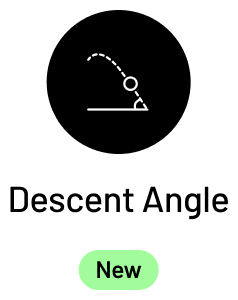
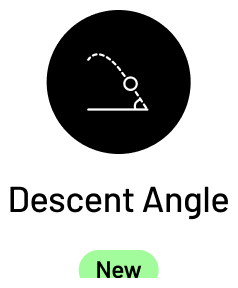
Update metrics section layout and styling for better visual appeal
Refactors the MetricsSection component in client/src/pages/sections/MetricsSection.tsx to adjust spacing, add a top divider, and update the icon container styling. Also includes minor updates to several icon image files in client/public/figmaAssets/icons-cropped/.

Replit-Commit-Author: Agent
Replit-Commit-Session-Id: 19a9ff34-7b0b-4b0c-9927-896b3c86748a
Replit-Commit-Checkpoint-Type: intermediate_checkpoint
Replit-Commit-Screenshot-Url: https://storage.googleapis.com/screenshot-production-us-central1/c275bbd8-5436-4848-882d-d07a6e75488d/19a9ff34-7b0b-4b0c-9927-896b3c86748a/23bVQeK

diff --git a/client/src/pages/sections/MetricsSection.tsx b/client/src/pages/sections/MetricsSection.tsx
@@ -124,8 +124,8 @@ const MetricCard = ({ metric, isSelected, onSelect }: {
       onClick={onSelect}
       data-testid={`metric-card-${metric.name.toLowerCase().replace(/\s+/g, '-')}`}
     >
-      {/* Icon Container - Clean with no extra space */}
-      <div className="relative mb-3">
+      {/* Icon Container - Reduced spacing */}
+      <div className="relative mb-1">
         <img 
           src={`/figmaAssets/icons-cropped/${metric.iconName}.png`}
           alt={metric.name}
@@ -204,39 +204,47 @@ export const MetricsSection = (): JSX.Element => {
   };
 
   return (
-    <section className="w-full py-24 px-8 bg-genericblack">
-      <div className="max-w-7xl mx-auto">
-        {/* Section Header */}
-        <div className="text-center mb-20">
-          <h2 className="font-heading-72-9xl-hero font-[number:var(--heading-72-9xl-hero-font-weight)] text-[length:var(--heading-72-9xl-hero-font-size)] tracking-[var(--heading-72-9xl-hero-letter-spacing)] leading-[var(--heading-72-9xl-hero-line-height)] [font-style:var(--heading-72-9xl-hero-font-style)] text-white mb-6">
-            MLM2PRO Metrics
-          </h2>
-          <p className="font-paragraph-20-xl-medium font-[number:var(--paragraph-20-xl-medium-font-weight)] text-[length:var(--paragraph-20-xl-medium-font-size)] tracking-[var(--paragraph-20-xl-medium-letter-spacing)] leading-[var(--paragraph-20-xl-medium-line-height)] text-neutral-200 max-w-3xl mx-auto">
-            Unlock precision golf analytics with comprehensive metrics that help you understand and improve your game. Click any metric to learn more.
-          </p>
-        </div>
+    <section className="w-full bg-genericblack relative">
+      {/* Top Divider */}
+      <div className="w-full h-px bg-gradient-to-r from-transparent via-primary600-main to-transparent opacity-30" />
+      
+      <div className="py-24 px-8">
+        <div className="max-w-7xl mx-auto">
+          {/* Section Header */}
+          <div className="text-center mb-20">
+            <h2 className="font-heading-72-9xl-hero font-[number:var(--heading-72-9xl-hero-font-weight)] text-[length:var(--heading-72-9xl-hero-font-size)] tracking-[var(--heading-72-9xl-hero-letter-spacing)] leading-[var(--heading-72-9xl-hero-line-height)] [font-style:var(--heading-72-9xl-hero-font-style)] text-white mb-6">
+              MLM2PRO Metrics
+            </h2>
+            <p className="font-paragraph-20-xl-medium font-[number:var(--paragraph-20-xl-medium-font-weight)] text-[length:var(--paragraph-20-xl-medium-font-size)] tracking-[var(--paragraph-20-xl-medium-letter-spacing)] leading-[var(--paragraph-20-xl-medium-line-height)] text-neutral-200 max-w-3xl mx-auto">
+              Unlock precision golf analytics with comprehensive metrics that help you understand and improve your game. Click any metric to learn more.
+            </p>
+          </div>
 
-        {/* 5x3 Grid Layout with inline dropdown */}
-        <div className="grid grid-cols-2 sm:grid-cols-3 lg:grid-cols-5 gap-x-8 gap-y-16 mx-auto">
-          {metrics.map((metric, index) => (
-            <div className="contents" key={index}>
-              <MetricCard 
-                metric={metric}
-                isSelected={selectedMetric === index}
-                onSelect={() => handleMetricClick(index)}
-              />
-              
-              {/* Show details directly after selected metric */}
-              {selectedMetric === index && (
-                <MetricDetails 
-                  metric={metric} 
-                  onClose={() => setSelectedMetric(null)}
+          {/* 5x3 Grid Layout with inline dropdown */}
+          <div className="grid grid-cols-2 sm:grid-cols-3 lg:grid-cols-5 gap-x-8 gap-y-16 mx-auto">
+            {metrics.map((metric, index) => (
+              <div className="contents" key={index}>
+                <MetricCard 
+                  metric={metric}
+                  isSelected={selectedMetric === index}
+                  onSelect={() => handleMetricClick(index)}
                 />
-              )}
-            </div>
-          ))}
+                
+                {/* Show details directly after selected metric */}
+                {selectedMetric === index && (
+                  <MetricDetails 
+                    metric={metric} 
+                    onClose={() => setSelectedMetric(null)}
+                  />
+                )}
+              </div>
+            ))}
+          </div>
         </div>
       </div>
+      
+      {/* Bottom Divider */}
+      <div className="w-full h-px bg-gradient-to-r from-transparent via-primary600-main to-transparent opacity-30" />
     </section>
   );
 };
